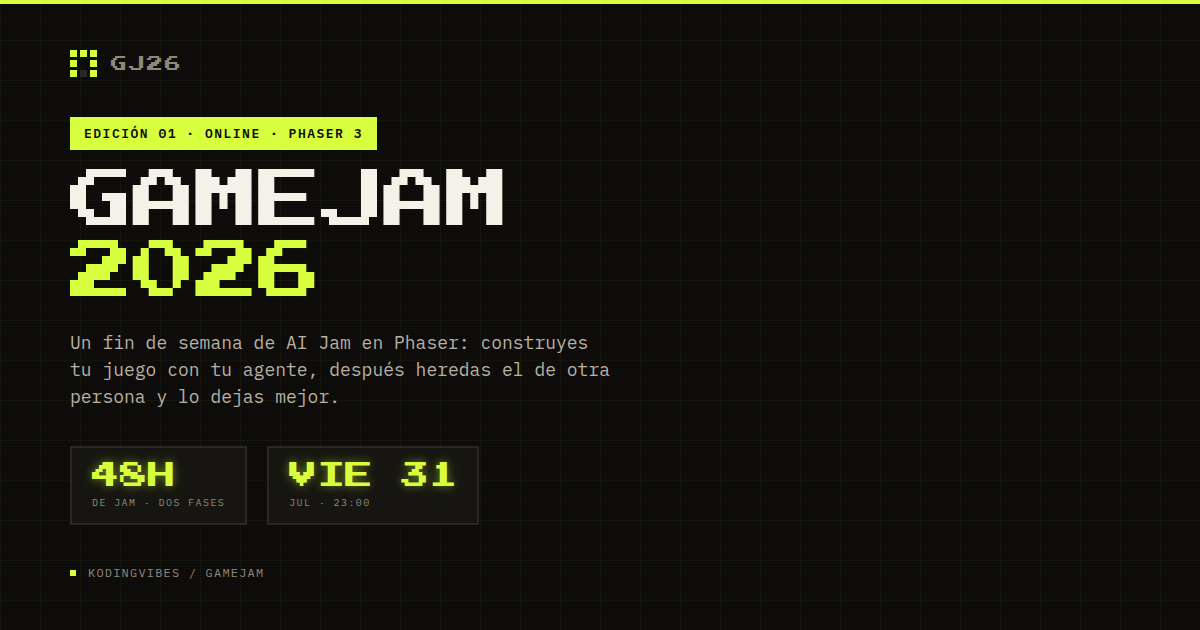
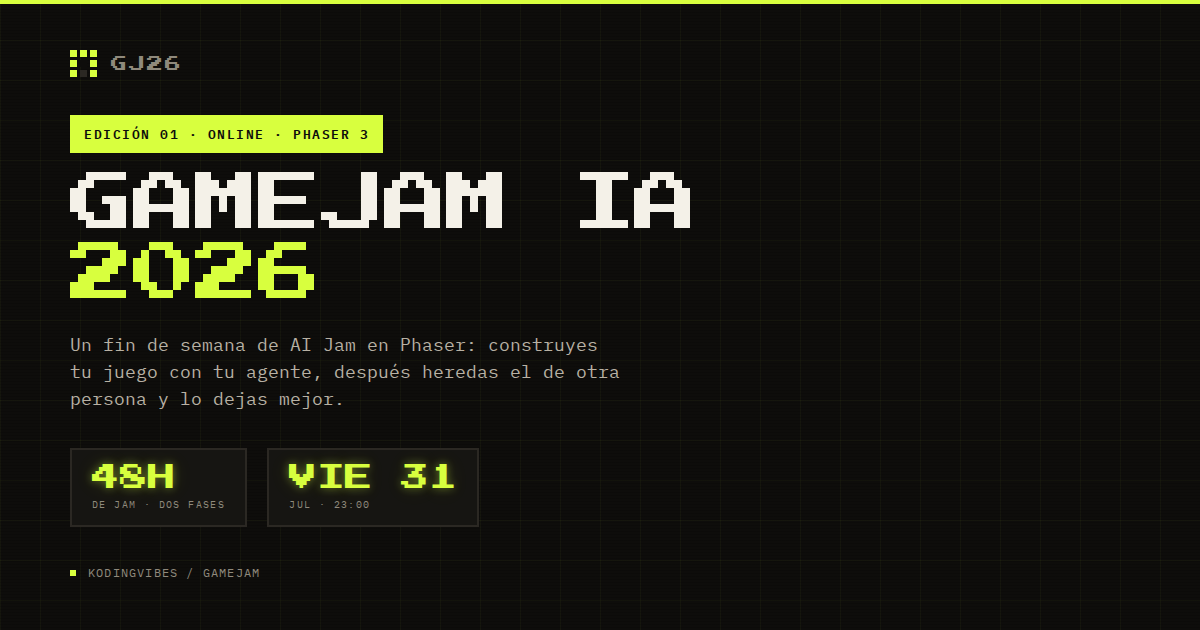
feat: update OG image to GameJam IA 2026

diff --git a/og-image.html b/og-image.html
@@ -141,7 +141,7 @@
 
     <div class="main">
       <div class="badge">Edición 01 · Online · Phaser 3</div>
-      <div class="title">GAMEJAM<br><span>2026</span></div>
+      <div class="title">GAMEJAM IA<br><span>2026</span></div>
       <div class="subtitle">Un fin de semana de AI Jam en Phaser: construyes tu juego con tu agente, después heredas el de otra persona y lo dejas mejor.</div>
       <div class="stats">
         <div class="stat">
